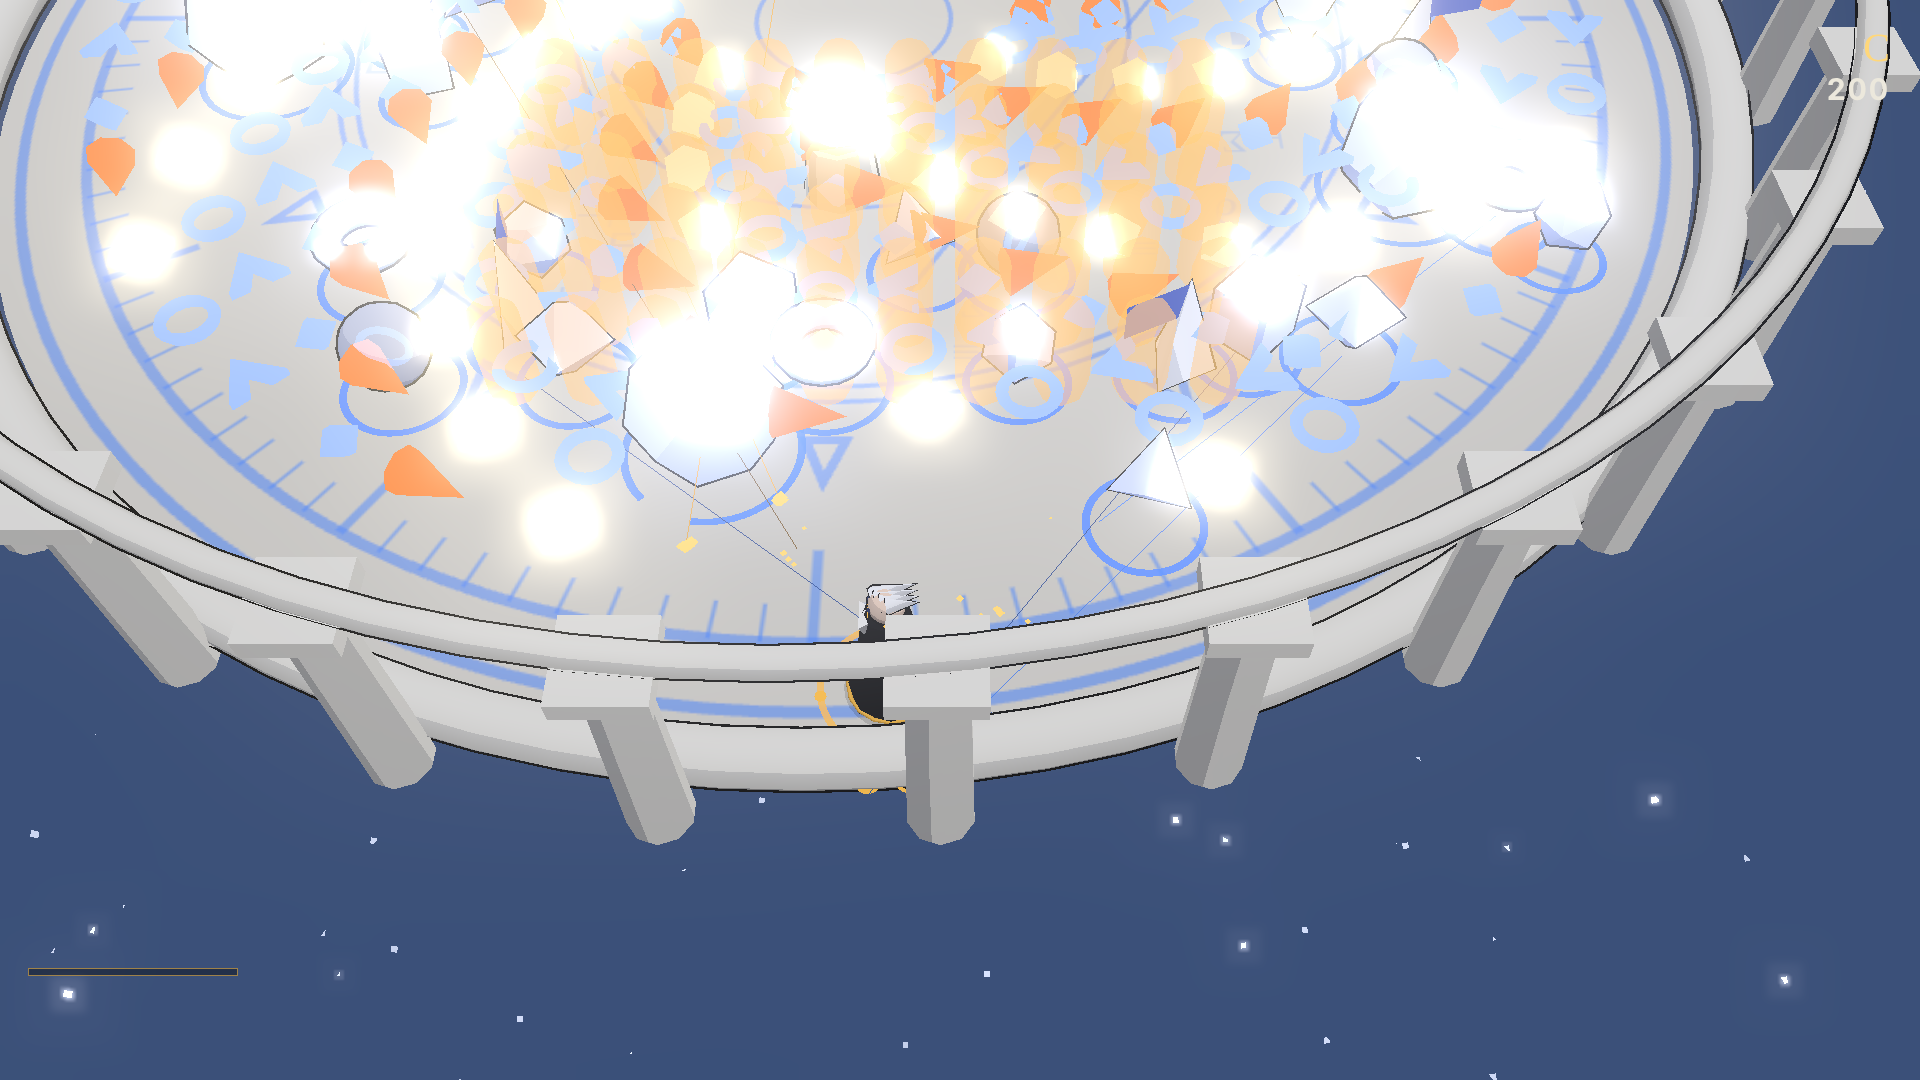
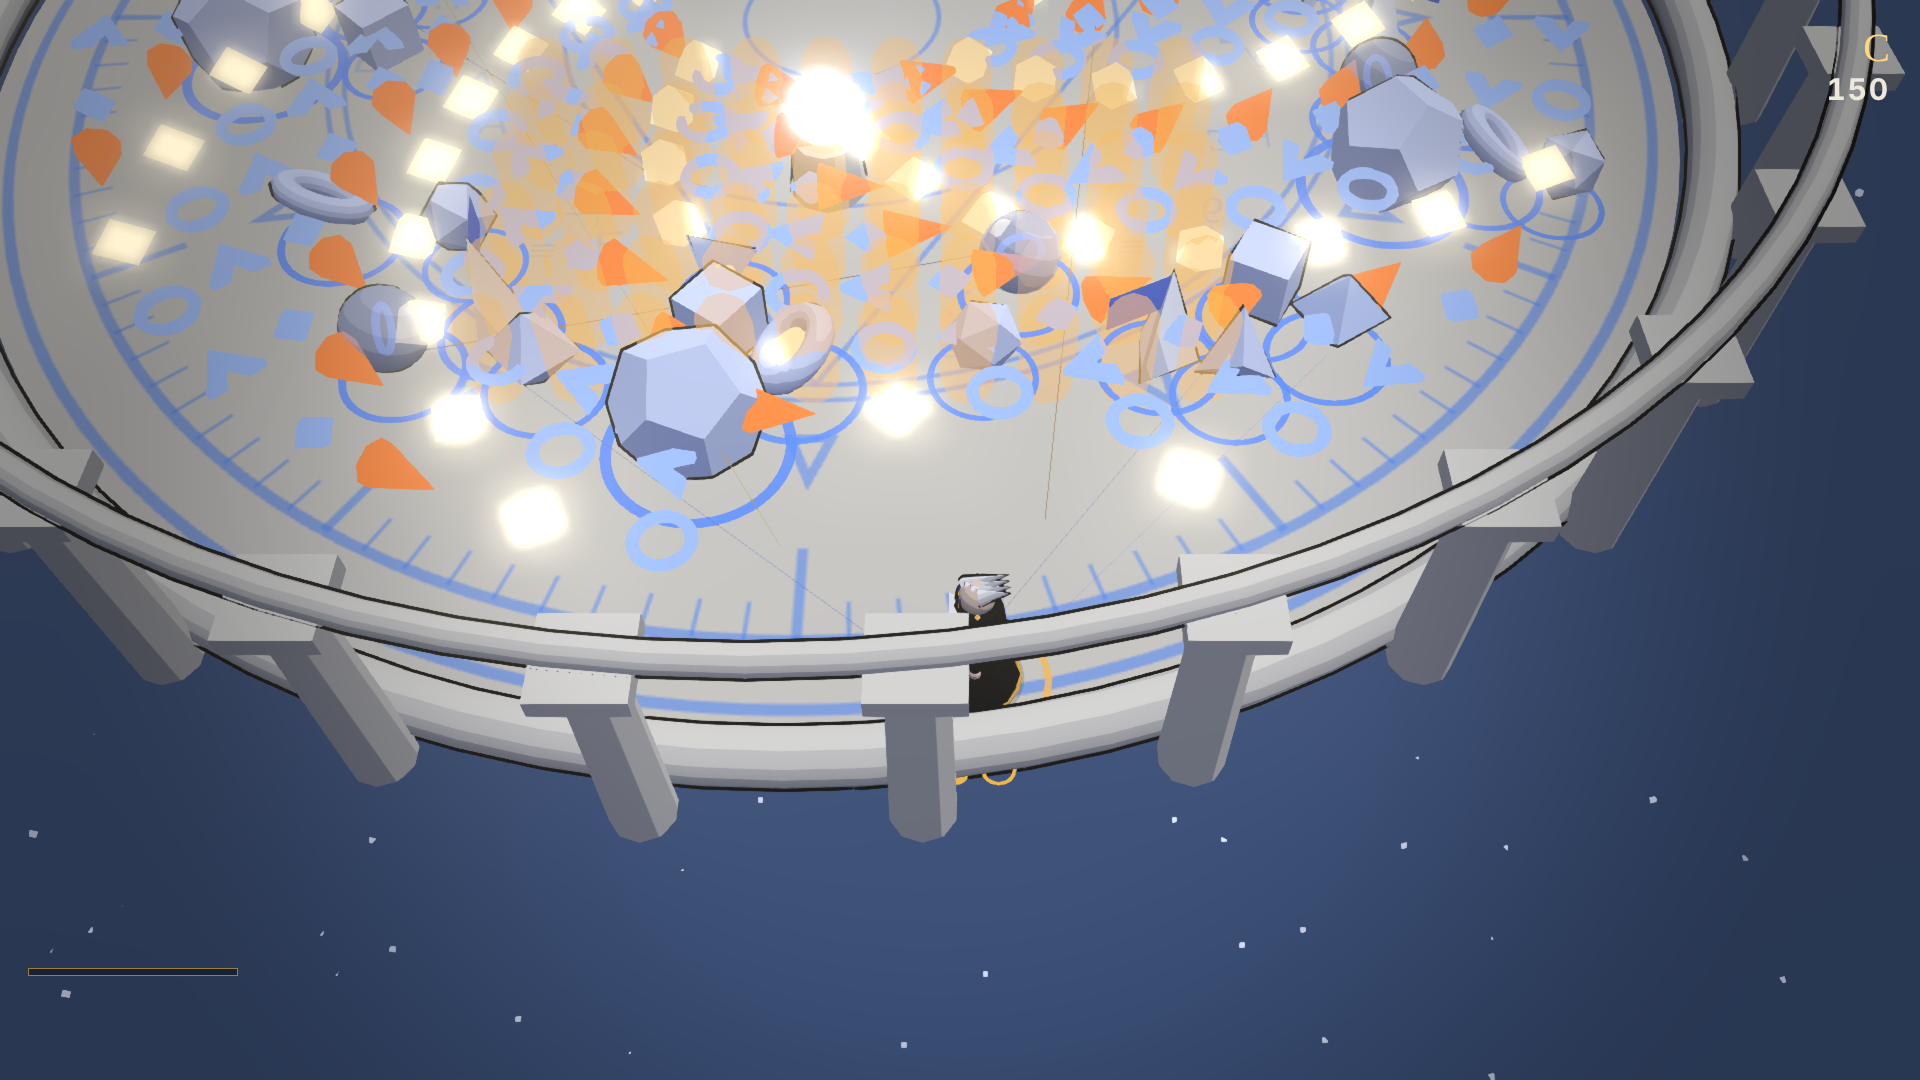
Instance Theorems and Certainty rings: 250 -> 103 draw calls at peak density
- TheoremInstancer: per-type instanced solid/ghost/outline, instanced elite halos,
  Oracle irises, Herald flags; all Certainty rings in one shader-arc instanced draw
- Empty projectile instancers hidden; capture tool waits out Q.E.D. inversion on scene shots

Claude-Session: https://claude.ai/code/session_01HCSJ6Hk6bupfK9UA9CBPPo

diff --git a/src/render/TheoremInstancer.ts b/src/render/TheoremInstancer.ts
@@ -1,0 +1,126 @@
+import * as THREE from "three";
+import type { World } from "../sim/World";
+import type { Actor } from "../sim/entities";
+import type { TheoremType } from "../sim/types";
+import { hullGeometry, outlineMaterial, toonUnique } from "../look/LookKit";
+import { PALETTE } from "../look/palette";
+import { theoremGeometry } from "./figures";
+
+export const THEOREM_TYPES: TheoremType[] = ["axiom", "corollary", "variable", "constant", "iterator", "paradox", "oracle", "herald"];
+const CAP = 64;
+
+interface TypeSet { solid: THREE.InstancedMesh; outline: THREE.InstancedMesh; ghost: THREE.InstancedMesh }
+
+/**
+ * All Theorems render as instanced draws: per type one solid + one outline (+ one ghost layer for spectral/phased),
+ * and every Certainty ring in a single instanced draw (arc length per instance in the shader).
+ * Peak density (40 Theorems) costs ≈ 20 draws instead of ≈ 120.
+ */
+export class TheoremInstancer {
+  private readonly sets = new Map<TheoremType, TypeSet>();
+  private readonly rings: THREE.InstancedMesh;
+  private readonly ringFrac: THREE.InstancedBufferAttribute;
+  private readonly ringCol: THREE.InstancedBufferAttribute;
+  private readonly halos: THREE.InstancedMesh;
+  private readonly irises: THREE.InstancedMesh;
+  private readonly flags: THREE.InstancedMesh;
+  private readonly m4 = new THREE.Matrix4();
+  private readonly q = new THREE.Quaternion();
+  private readonly e = new THREE.Euler();
+  private readonly v = new THREE.Vector3();
+  private readonly s = new THREE.Vector3();
+  private readonly c = new THREE.Color();
+  highContrast = false;
+
+  constructor(private readonly root: THREE.Object3D) {
+    for (const t of THREE_TYPES()) {
+      const geo = theoremGeometry(t);
+      if (t === "iterator") geo.rotateX(Math.PI / 2);
+      const solidMat = toonUnique(0xffffff, PALETTE.blue, 0.12);
+      if (t === "oracle") { solidMat.transparent = true; solidMat.opacity = 0.6; }
+      const ghostMat = toonUnique(0xffffff, PALETTE.blue, 0.3, { transparent: true, opacity: 0.3 });
+      ghostMat.depthWrite = false;
+      const solid = this.im(geo, solidMat, true);
+      const ghost = this.im(geo, ghostMat, true);
+      const outline = this.im(hullGeometry(geo), outlineMaterial(), false);
+      outline.renderOrder = -1;
+      this.sets.set(t, { solid, ghost, outline });
+    }
+    // Certainty rings: one draw, arc + colour per instance.
+    const ringGeo = new THREE.RingGeometry(1, 1.13, 48);
+    ringGeo.rotateX(-Math.PI / 2);
+    this.ringFrac = new THREE.InstancedBufferAttribute(new Float32Array(CAP * 2), 1);
+    this.ringCol = new THREE.InstancedBufferAttribute(new Float32Array(CAP * 2 * 3), 3);
+    ringGeo.setAttribute("aFrac", this.ringFrac);
+    ringGeo.setAttribute("aCol", this.ringCol);
+    const ringMat = new THREE.ShaderMaterial({
+      transparent: true, depthWrite: false, side: THREE.DoubleSide,
+      vertexShader: `attribute float aFrac; attribute vec3 aCol; varying float vFrac; varying vec3 vCol; varying vec2 vP;
+        void main(){ vFrac = aFrac; vCol = aCol; vP = position.xz; gl_Position = projectionMatrix * modelViewMatrix * instanceMatrix * vec4(position, 1.0); }`,
+      fragmentShader: `varying float vFrac; varying vec3 vCol; varying vec2 vP;
+        void main(){ float a = atan(vP.x, vP.y) / 6.28318530718; a = a < 0.0 ? a + 1.0 : a; if (a > vFrac) discard; gl_FragColor = vec4(vCol, 0.9); }`,
+    });
+    this.rings = new THREE.InstancedMesh(ringGeo, ringMat, CAP * 2);
+    this.prep(this.rings);
+    this.halos = this.im(new THREE.TorusGeometry(1, 0.06, 6, 32).rotateX(Math.PI / 2), new THREE.MeshBasicMaterial({ color: 0xc7b46a }), false);
+    this.irises = this.im(new THREE.TorusGeometry(0.3, 0.05, 6, 24), new THREE.MeshBasicMaterial({ color: PALETTE.blue }), false);
+    this.flags = this.im(new THREE.PlaneGeometry(0.9, 0.55).translate(0.45, 0.45, 0), new THREE.MeshBasicMaterial({ color: PALETTE.blueDeep, side: THREE.DoubleSide }), false);
+  }
+
+  private prep(m: THREE.InstancedMesh): void { m.count = 0; m.frustumCulled = false; m.visible = false; this.root.add(m); }
+  private im(geo: THREE.BufferGeometry, mat: THREE.Material, colored: boolean): THREE.InstancedMesh {
+    const m = new THREE.InstancedMesh(geo, mat, CAP);
+    if (colored) m.instanceColor = new THREE.InstancedBufferAttribute(new Float32Array(CAP * 3), 3);
+    this.prep(m);
+    return m;
+  }
+
+  static isTheorem(a: Actor): boolean { return (THREE_TYPES() as string[]).includes(a.type); }
+
+  update(w: World, at: (a: Actor) => [number, number], t: number): void {
+    const n = new Map<THREE.InstancedMesh, number>();
+    const put = (m: THREE.InstancedMesh, color?: THREE.Color) => { const i = n.get(m) ?? 0; if (i >= m.instanceMatrix.count) return; m.setMatrixAt(i, this.m4); if (color) m.setColorAt(i, color); n.set(m, i + 1); };
+    let ri = 0;
+    for (const a of w.actors) {
+      if (!a.alive || !TheoremInstancer.isTheorem(a)) continue;
+      const set = this.sets.get(a.type as TheoremType)!;
+      const [x, z] = at(a);
+      const tele = a.state === "telegraph" || (a.d.declaring ?? 0) > 0;
+      const spawnK = a.state === "spawn" ? Math.max(0.05, 1 - a.stateT / 30) : 1;
+      const pulse = tele ? 1 + Math.sin(t * 30) * 0.06 : 1;
+      const sc = spawnK * pulse;
+      const spins = a.type !== "herald" && a.type !== "iterator";
+      const y = (a.type === "herald" ? 1.0 : 0.85) + (spins ? Math.sin(t * 2 + a.id) * 0.08 : 0);
+      const yaw = spins ? t * (tele ? 6 : 1.2) + a.id : Math.atan2(a.facing.x, a.facing.z);
+      this.e.set(a.type === "iterator" ? 0 : 0, yaw, a.type === "iterator" ? t * 2 : 0);
+      this.q.setFromEuler(this.e);
+      this.m4.compose(this.v.set(x, y, z), this.q, this.s.set(sc, sc, sc));
+      // Shape first; colour tint second: broken = red, commanded = blue, telegraph = pale blue (white when high-contrast), freed = gold.
+      const broken = a.state === "broken";
+      this.c.setHex(broken ? 0xff8a8a : a.neutral ? 0xffe0a0 : a.commandedBy ? 0xa9c2ff : tele ? (this.highContrast ? 0xffffff : 0xcfe0ff) : a.buffT > 0 ? 0xe2eaff : 0xfbfaf6);
+      if (broken) this.c.lerp(new THREE.Color(PALETTE.red), 0.35 + Math.sin(t * 20) * 0.2);
+      const ghost = a.spectral || a.phasedT > 0;
+      put(ghost ? set.ghost : set.solid, this.c);
+      if (!ghost) put(set.outline);
+      if (a.type === "oracle") put(this.irises);
+      if (a.type === "herald") put(this.flags);
+      if (a.elite && !a.d.eliteStripped) { this.m4.compose(this.v.set(x, 1.9, z), new THREE.Quaternion(), this.s.set(a.radius + 0.25, 1, a.radius + 0.25)); put(this.halos); }
+      // Certainty ring
+      if (ri < this.rings.instanceMatrix.count) {
+        const r = (a.radius + 0.15) * spawnK;
+        this.m4.compose(this.v.set(x, 0.04, z), new THREE.Quaternion(), this.s.set(r, 1, r));
+        this.rings.setMatrixAt(ri, this.m4);
+        this.ringFrac.setX(ri, a.maxCertainty > 0 ? Math.max(0.001, a.certainty / a.maxCertainty) : 0);
+        this.c.setHex(broken ? PALETTE.red : PALETTE.blue);
+        this.ringCol.setXYZ(ri, this.c.r, this.c.g, this.c.b);
+        ri++;
+      }
+    }
+    const all: THREE.InstancedMesh[] = [this.halos, this.irises, this.flags];
+    for (const s of this.sets.values()) all.push(s.solid, s.ghost, s.outline);
+    for (const m of all) { const c = n.get(m) ?? 0; m.count = c; m.visible = c > 0; m.instanceMatrix.needsUpdate = true; if (m.instanceColor) m.instanceColor.needsUpdate = true; }
+    this.rings.count = ri; this.rings.visible = ri > 0; this.rings.instanceMatrix.needsUpdate = true; this.ringFrac.needsUpdate = true; this.ringCol.needsUpdate = true;
+  }
+}
+
+function THREE_TYPES(): TheoremType[] { return THEOREM_TYPES; }

diff --git a/src/render/WorldView.ts b/src/render/WorldView.ts
@@ -9,6 +9,7 @@ import { bossFigure, markovFigure, sigilShape, theoremFigure } from "./figures";
 import { FOCUS } from "../data/resources";
 import { INPUT } from "../data/input";
 import { holdRadius } from "../actors/child/child";
+import { TheoremInstancer } from "./TheoremInstancer";
 
 interface ActorView { g: THREE.Group; ring: THREE.Mesh; ringMat: THREE.MeshBasicMaterial; body: THREE.Object3D | undefined; type: string; flash: number; tint: THREE.MeshToonMaterial[] }
 interface Interp { px: number; pz: number; x: number; z: number }
@@ -44,6 +45,7 @@ export class WorldView {
   private links = new THREE.Group();
   private childHold: THREE.Mesh | null = null;
   readonly afterimages: Afterimages;
+  private theorems!: TheoremInstancer;
   private m4 = new THREE.Matrix4();
   private q = new THREE.Quaternion();
   private lazar = false;
@@ -63,6 +65,7 @@ export class WorldView {
       scene.add(im);
     }
     this.root.add(this.links);
+    this.theorems = new TheoremInstancer(scene);
   }
 
   load(w: World, lazar = false): void {
@@ -194,9 +197,11 @@ export class WorldView {
   }
 
   private updateActors(w: World, alpha: number, t: number): void {
+    this.theorems.highContrast = this.highContrast;
+    this.theorems.update(w, (a) => this.at(a.id, alpha, a.pos.x, a.pos.z), t);
     const seen = new Set<number>();
     for (const a of w.actors) {
-      if (!a.alive) continue;
+      if (!a.alive || TheoremInstancer.isTheorem(a)) continue;
       seen.add(a.id);
       let v = this.actors.get(a.id);
       if (!v) { v = this.makeActorView(a); this.actors.set(a.id, v); }
@@ -256,7 +261,7 @@ export class WorldView {
       im.setMatrixAt(n, this.m4);
       counts.set(key, n + 1);
     }
-    for (const [key, im] of this.projInst) { im.count = counts.get(key) ?? 0; im.instanceMatrix.needsUpdate = true; }
+    for (const [key, im] of this.projInst) { im.count = counts.get(key) ?? 0; im.visible = im.count > 0; im.instanceMatrix.needsUpdate = true; }
   }
 
   private makeProp(p: Prop): THREE.Object3D {

diff --git a/TUNING_LOG.md b/TUNING_LOG.md
@@ -43,3 +43,5 @@ Input-to-motion latency: **1 frame** in sim (move applied on the input's own ste
 | Value | Old → New | Why | Evidence |
 |---|---|---|---|
 | Theorem contact-shadow mesh | on → off (Markov/bosses keep it) | Peak density measured 281 draw calls vs ≤ 250 | captures/perf.json: 281 → 250 |
+| Theorem rendering | per-actor Group (body + outline + ring ≈ 3 draws each) → per-type InstancedMesh (solid/ghost/outline) + one instanced Certainty-ring draw | Draw-call headroom for new art | captures/perf.json: 188 → 103 at 40 enemies + 400 projectiles + 60 afterimages |
+| Shell 1.3 VFX + instanced afterimages | own spark/ring pools + 60 afterimage meshes → shell pooled VFX + one InstancedMesh | Same | 250 → 188 |
